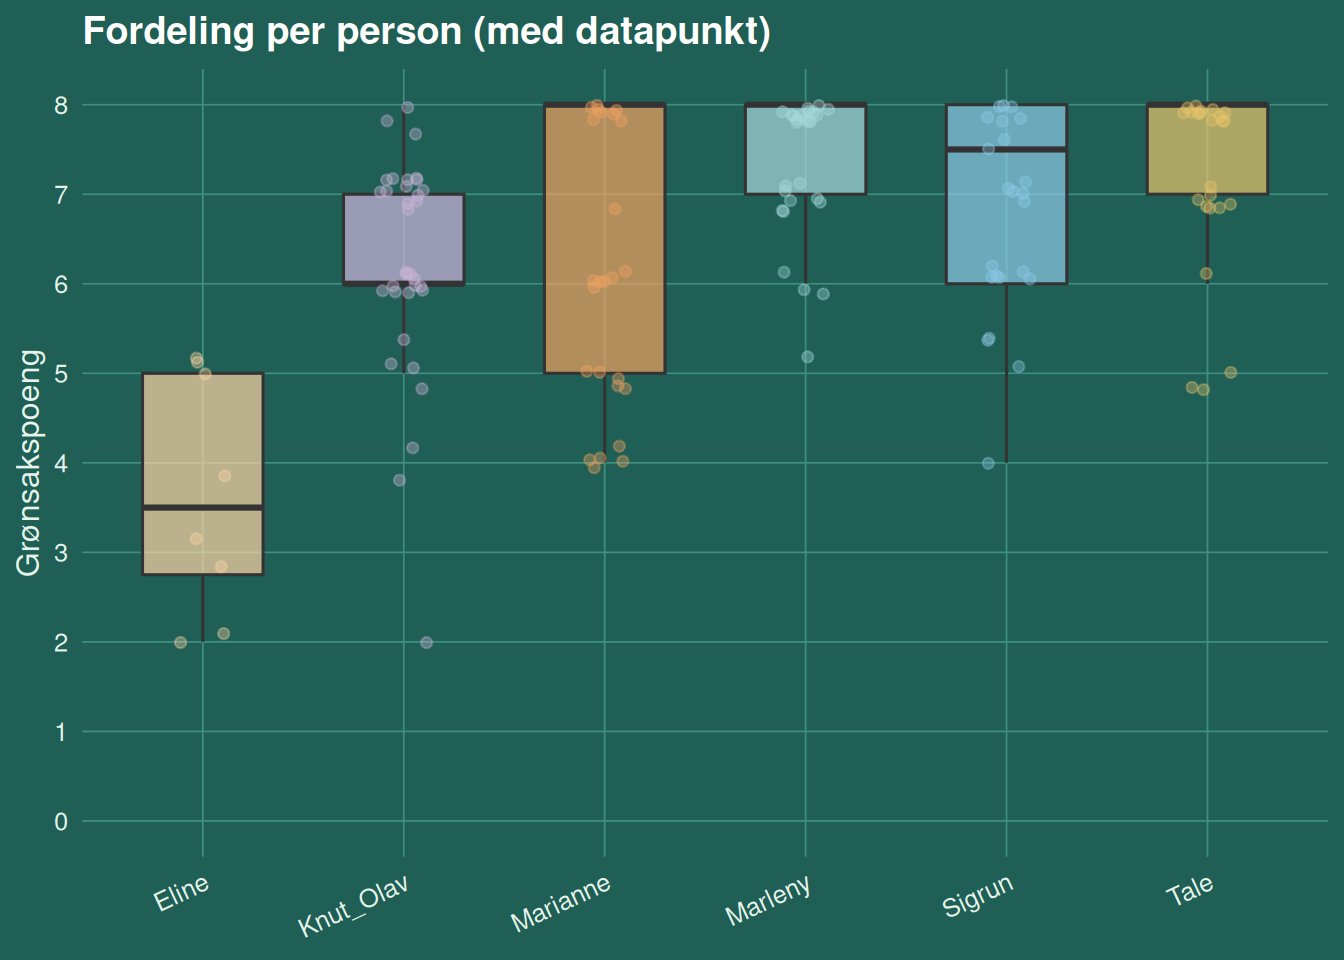
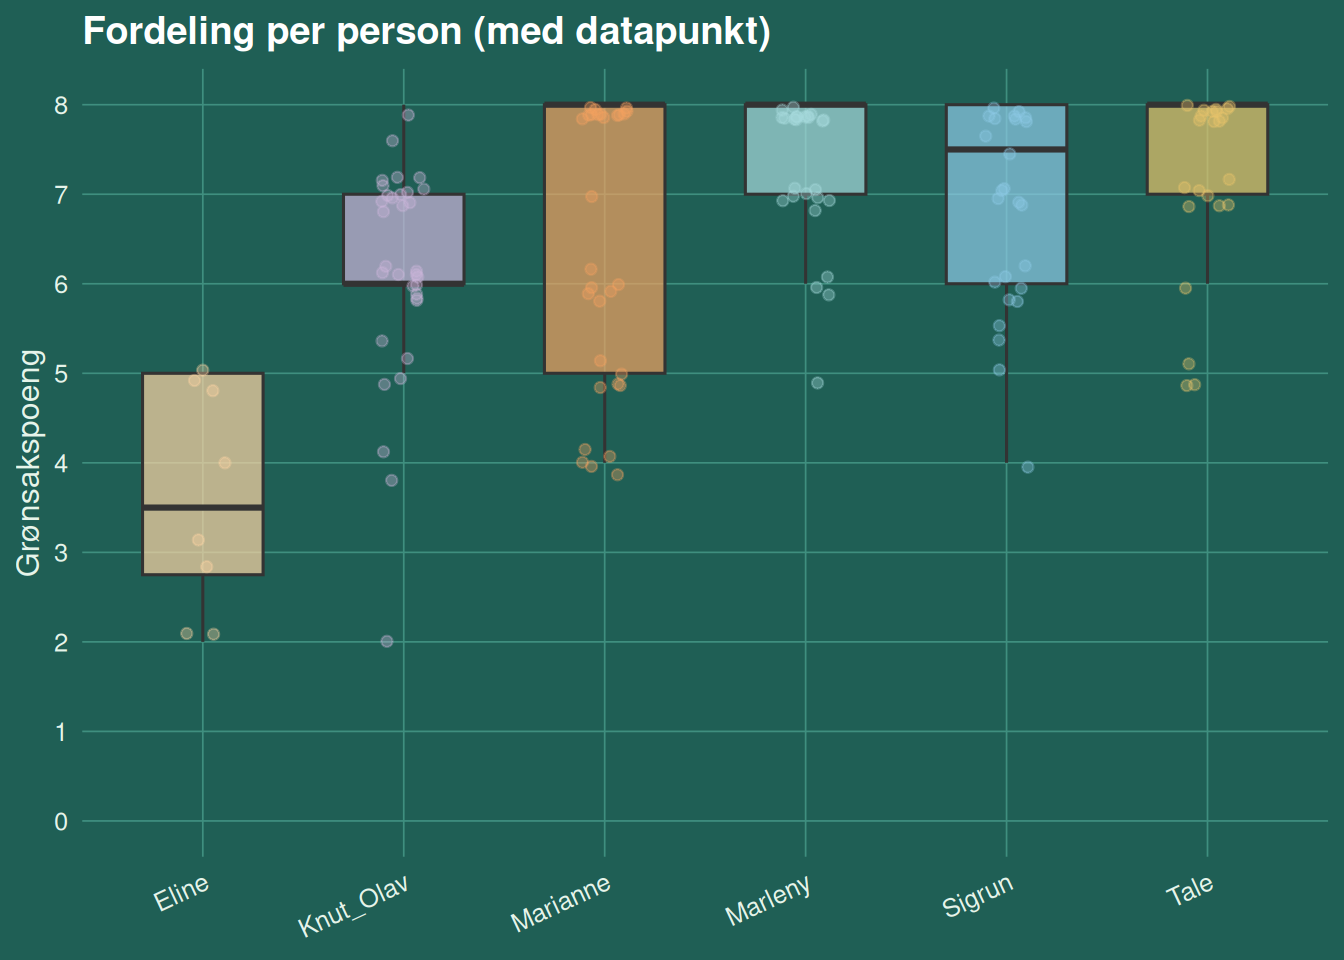
Auto-update dashboard

diff --git a/docs/index.html b/docs/index.html
@@ -394,8 +394,8 @@ ul.task-list li input[type="checkbox"] {
 <div class="card">
 <div class="cell">
 <div class="cell-output-display">
-<div class="datatables html-widget html-fill-item" id="htmlwidget-c8eaea4185b94952f771" style="width:100%;height:auto;"></div>
-<script type="application/json" data-for="htmlwidget-c8eaea4185b94952f771">{"x":{"filter":"none","vertical":false,"data":[[2,2,2,2,2,2,2,3,3,3,3,3,3,3,4,4,4,4,4,4,4,5,5,5,5,5,5,5,6,6,6,6,6,6,6,null,null,null,null,null],["2026-01-05","2026-01-06","2026-01-07","2026-01-08","2026-01-09","2026-01-10","2026-01-11","2026-01-12","2026-01-13","2026-01-14","2026-01-15","2026-01-16","2026-01-17","2026-01-18","2026-01-19","2026-01-20","2026-01-21","2026-01-22","2026-01-23","2026-01-24","2026-01-25","2026-01-26","2026-01-27","2026-01-28","2026-01-29","2026-01-30","2026-01-31","2026-02-01","2026-02-02","2026-02-03","2026-02-04","2026-02-05","2026-02-06","2026-02-07","2026-02-08",null,null,null,null,null],["Mandag","Tirsdag","Onsdag","Torsdag","Fredag","Lørdag","Søndag","Mandag","Tirsdag","Onsdag","Torsdag","Fredag","Lørdag","Søndag","Mandag","Tirsdag","Onsdag","Torsdag","Fredag","Lørdag","Søndag","Mandag","Tirsdag","Onsdag","Torsdag","Fredag","Lørdag","Søndag","Mandag","Tirsdag","Onsdag","Torsdag","Fredag","Lørdag","Søndag",null,null,null,null,null],["6","7","5.5","4","5.5","7.5","7","7.5","8","6","8","8","8","6","8","6","7","7","9","8","8","6","10","8","5","7","6","9","8","8","8","8","8","8","8",null,null,null,null,null],["6","7","6","4","5.5","7","7","6","7","6","7","7.5","8","6","7","6","5","8","7","6","7","6","7","7","2","7","4","6","7","6","6","8","7","5","5",null,null,null,null,null],["5","8","7","8","7","8","8","7","8","7","8","8","8","8","8","7","7","8","8","7","8","8","8","8","8","8","6","8","8","8","8","8","8","5","5",null,null,null,null,null],["8","7","8","8","8","8","7","8","8","8","8","7","7","8","8","8","6","7","8","8","8","8","8","8","8","7","7","6","5","6","8","8","8","8","7",null,null,null,null,null],["5","6","8","8","8","5","4","8","8","8","8","8","8","6","5","6","4","6","8","6","6","8","8","8","4","8","5","5","7","8","8","8","8","4","4",null,null,null,null,null],["5","5","4","2","3","3","2","5",null,null,null,null,null,null,null,null,null,null,null,null,null,null,null,null,null,null,null,null,null,null,null,null,null,null,null,null,null,null,null,null]],"container":"<table class=\"display\">\n  <thead>\n    <tr>\n      <th>Veke<\/th>\n      <th>Dato<\/th>\n      <th>Dag<\/th>\n      <th>Sigrun<\/th>\n      <th>Knut_Olav<\/th>\n      <th>Tale<\/th>\n      <th>Marleny<\/th>\n      <th>Marianne<\/th>\n      <th>Eline<\/th>\n    <\/tr>\n  <\/thead>\n<\/table>","options":{"pageLength":7,"scrollX":true,"columnDefs":[{"className":"dt-right","targets":0},{"name":"Veke","targets":0},{"name":"Dato","targets":1},{"name":"Dag","targets":2},{"name":"Sigrun","targets":3},{"name":"Knut_Olav","targets":4},{"name":"Tale","targets":5},{"name":"Marleny","targets":6},{"name":"Marianne","targets":7},{"name":"Eline","targets":8}],"order":[],"autoWidth":false,"orderClasses":false,"lengthMenu":[7,10,25,50,100]}},"evals":[],"jsHooks":[]}</script>
+<div class="datatables html-widget html-fill-item" id="htmlwidget-7acf12a143caee2d9e95" style="width:100%;height:auto;"></div>
+<script type="application/json" data-for="htmlwidget-7acf12a143caee2d9e95">{"x":{"filter":"none","vertical":false,"data":[[2,2,2,2,2,2,2,3,3,3,3,3,3,3,4,4,4,4,4,4,4,5,5,5,5,5,5,5,6,6,6,6,6,6,6,null,null,null,null,null],["2026-01-05","2026-01-06","2026-01-07","2026-01-08","2026-01-09","2026-01-10","2026-01-11","2026-01-12","2026-01-13","2026-01-14","2026-01-15","2026-01-16","2026-01-17","2026-01-18","2026-01-19","2026-01-20","2026-01-21","2026-01-22","2026-01-23","2026-01-24","2026-01-25","2026-01-26","2026-01-27","2026-01-28","2026-01-29","2026-01-30","2026-01-31","2026-02-01","2026-02-02","2026-02-03","2026-02-04","2026-02-05","2026-02-06","2026-02-07","2026-02-08",null,null,null,null,null],["Mandag","Tirsdag","Onsdag","Torsdag","Fredag","Lørdag","Søndag","Mandag","Tirsdag","Onsdag","Torsdag","Fredag","Lørdag","Søndag","Mandag","Tirsdag","Onsdag","Torsdag","Fredag","Lørdag","Søndag","Mandag","Tirsdag","Onsdag","Torsdag","Fredag","Lørdag","Søndag","Mandag","Tirsdag","Onsdag","Torsdag","Fredag","Lørdag","Søndag",null,null,null,null,null],["6","7","5.5","4","5.5","7.5","7","7.5","8","6","8","8","8","6","8","6","7","7","9","8","8","6","10","8","5","7","6","9","8","8","8","8","8","8","8",null,null,null,null,null],["6","7","6","4","5.5","7","7","6","7","6","7","7.5","8","6","7","6","5","8","7","6","7","6","7","7","2","7","4","6","7","6","6","8","7","5","5",null,null,null,null,null],["5","8","7","8","7","8","8","7","8","7","8","8","8","8","8","7","7","8","8","7","8","8","8","8","8","8","6","8","8","8","8","8","8","5","5",null,null,null,null,null],["8","7","8","8","8","8","7","8","8","8","8","7","7","8","8","8","6","7","8","8","8","8","8","8","8","7","7","6","5","6","8","8","8","8","7",null,null,null,null,null],["5","6","8","8","8","5","4","8","8","8","8","8","8","6","5","6","4","6","8","6","6","8","8","8","4","8","5","5","7","8","8","8","8","4","4",null,null,null,null,null],["5","5","4","2","3","3","2","5",null,null,null,null,null,null,null,null,null,null,null,null,null,null,null,null,null,null,null,null,null,null,null,null,null,null,null,null,null,null,null,null]],"container":"<table class=\"display\">\n  <thead>\n    <tr>\n      <th>Veke<\/th>\n      <th>Dato<\/th>\n      <th>Dag<\/th>\n      <th>Sigrun<\/th>\n      <th>Knut_Olav<\/th>\n      <th>Tale<\/th>\n      <th>Marleny<\/th>\n      <th>Marianne<\/th>\n      <th>Eline<\/th>\n    <\/tr>\n  <\/thead>\n<\/table>","options":{"pageLength":7,"scrollX":true,"columnDefs":[{"className":"dt-right","targets":0},{"name":"Veke","targets":0},{"name":"Dato","targets":1},{"name":"Dag","targets":2},{"name":"Sigrun","targets":3},{"name":"Knut_Olav","targets":4},{"name":"Tale","targets":5},{"name":"Marleny","targets":6},{"name":"Marianne","targets":7},{"name":"Eline","targets":8}],"order":[],"autoWidth":false,"orderClasses":false,"lengthMenu":[7,10,25,50,100]}},"evals":[],"jsHooks":[]}</script>
 </div>
 </div>
 </div>
